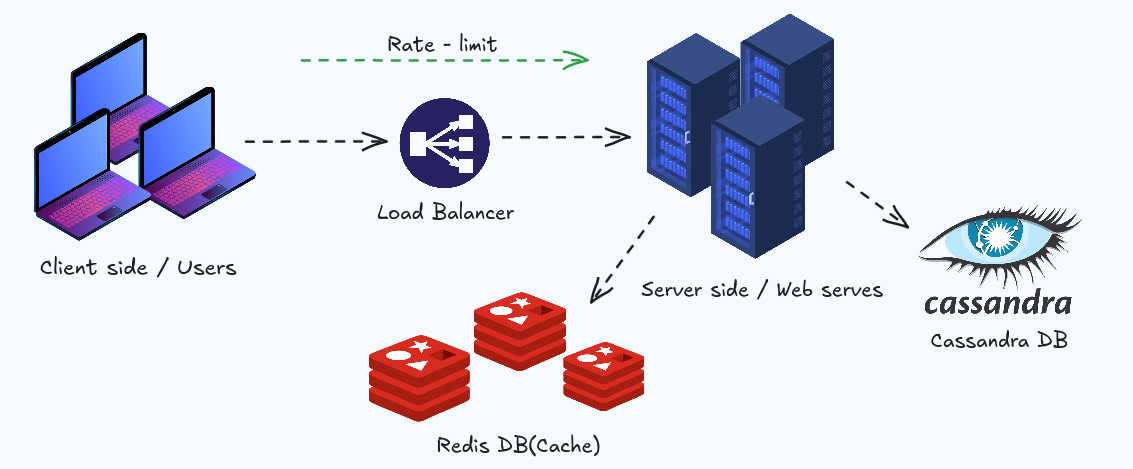
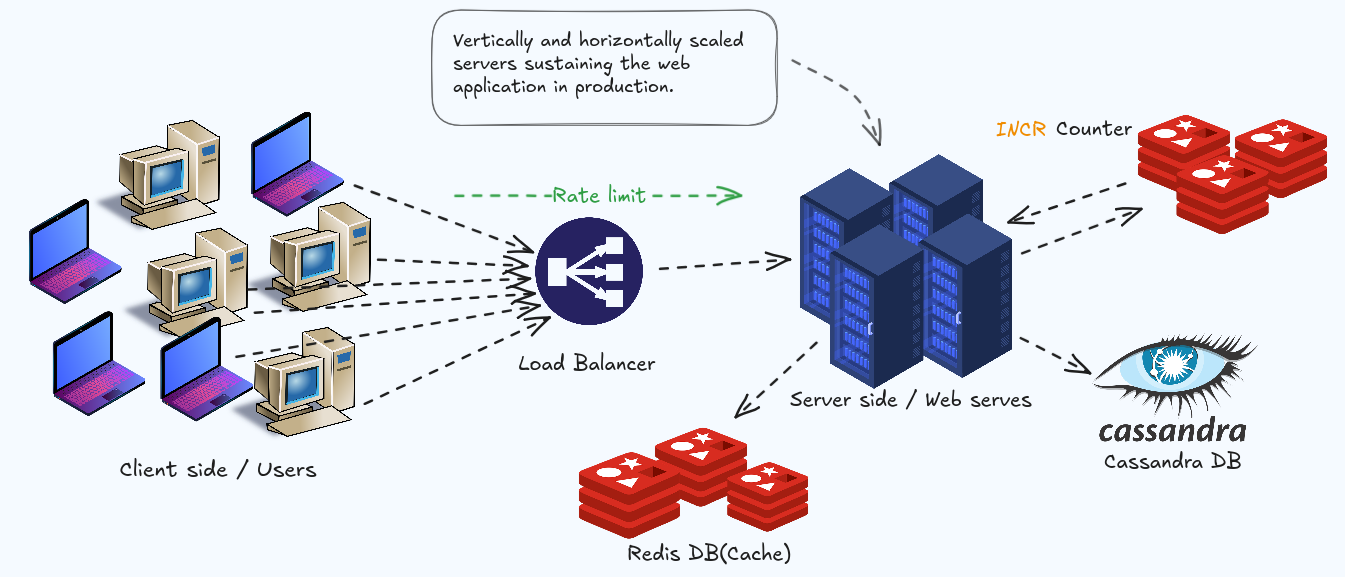
feat: Add a connection to the Cassandra database

diff --git a/src/database.py b/src/database.py
@@ -1,0 +1,17 @@
+from cassandra.cluster import Cluster
+
+
+class CassandraConnection:
+    def __init__(self, hosts, port, keyspace):
+        self._cluster = Cluster(hosts, port=port)
+        self._session = self._cluster.connect(keyspace)
+
+    @property
+    def session(self):
+        return self._session
+
+    def execute(self, query, params=None):
+        return self._session.execute(query, params)
+
+    def shutdown(self):
+        self._cluster.shutdown()